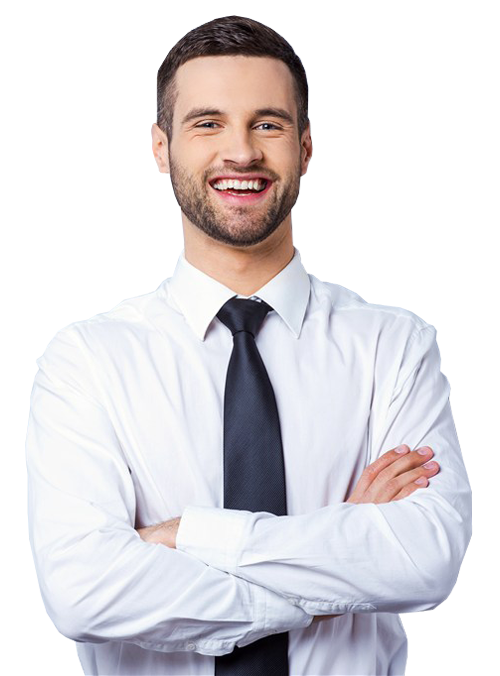
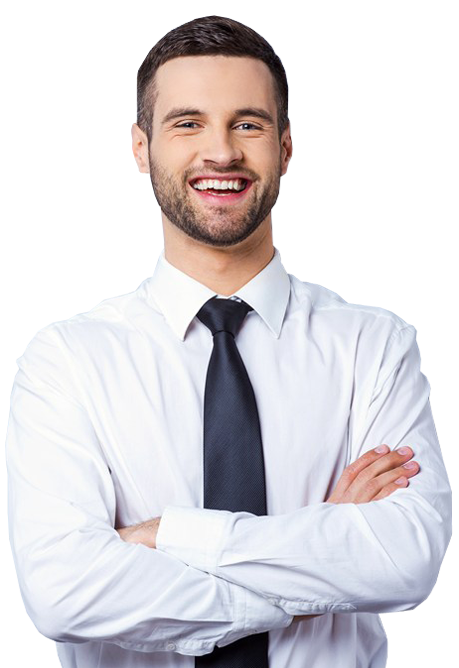
added html, img and style

diff --git a/index.html b/index.html
@@ -80,16 +80,17 @@
         <div class="container">
             <div class="about-area">
                 <div class="about-top">
-                    <h2>About</h2>
+                    <h2>ABOUT US</h2>
                 </div>
                 <div class="about-contain">
                     <div class="about-img">
-                        <img src="img/about-img.png" alt="">
+                        <img src="img/about-img.png">
                     </div>
                     <div class="about-text">
-                        <p>Lorem ipsum dolor sit amet consectetur adipisicing elit. Molestiae repellat sit quisquam laborum harum nulla obcaecati id cupiditate aperiam aspernatur! Laborum cum odio nulla dicta molestiae dolor nostrum ut neque.</p>
-                        <p>Lorem ipsum dolor sit amet consectetur adipisicing elit. Molestiae repellat sit quisquam laborum harum nulla obcaecati id cupiditate aperiam aspernatur! Laborum cum odio nulla dicta molestiae dolor nostrum ut neque.</p>
-                        <p>Lorem ipsum dolor sit amet consectetur adipisicing elit. Molestiae repellat sit quisquam laborum harum nulla obcaecati id cupiditate aperiam aspernatur! Laborum cum odio nulla dicta molestiae dolor nostrum ut neque.</p>
+                        <p>Lorem ipsum dolor sit amet consectetur adipisicing elit. Molestiae repellat sit quisquam laborum harum nulla obcaecati id cupiditate aperiam aspernatur! Laborum dicta molestiae dolor nostrum ut neque.</p>
+                        <p>Lorem ipsum dolor sit amet consectetur adipisicing elit. Molestiae repellat sit quisquam laborum harum nulla obcaecati id cupiditate aperiam aspernatur! Laborum cum odio nulla dicta molestiae dolor nostrum ut neque.
+                            Lorem ipsum dolor sit amet consectetur adipisicing elit. Sed dolores autem quis cum similique ducimus dolore, possimus tempora saepe repudiandae eligendi incidunt, distinctio eos. Sequi harum quaerat beatae consectetur fugiat.
+                        </p>
                     </div>
                 </div>
             </div>

diff --git a/css/Style.css b/css/Style.css
@@ -132,14 +132,38 @@ ul li {
 
 /* about section css start here */
 .about-area{
-    height: 500px;
-    background-color: beige;
-    padding-top: 30px;
+    height: 450px;
     text-align: center;
+}
+.about-top h2{
+    padding: 30px 0px;
+    font-size: 28px;
+    font-family: Arial, Helvetica, sans-serif;
 }
 .about-contain{
     display: flex;
     align-items: center;
+    justify-content: space-between;
+}
+.about-img{
+    width: 40%;
+    background:linear-gradient(130deg, #0873B9 50%, #fff 50%);
+    height: 371px;
+}
+.about-text{   
+    width: 60%;
+   
+}
+.about-text p{
+    padding-bottom: 20px;
+    line-height: 25px;
+    text-align: left;
+    color: #555;
+    padding-left: 20px;
+}
+.about-img > img{
+    width: 255px;
+    height: 371px;
 }
 
 
